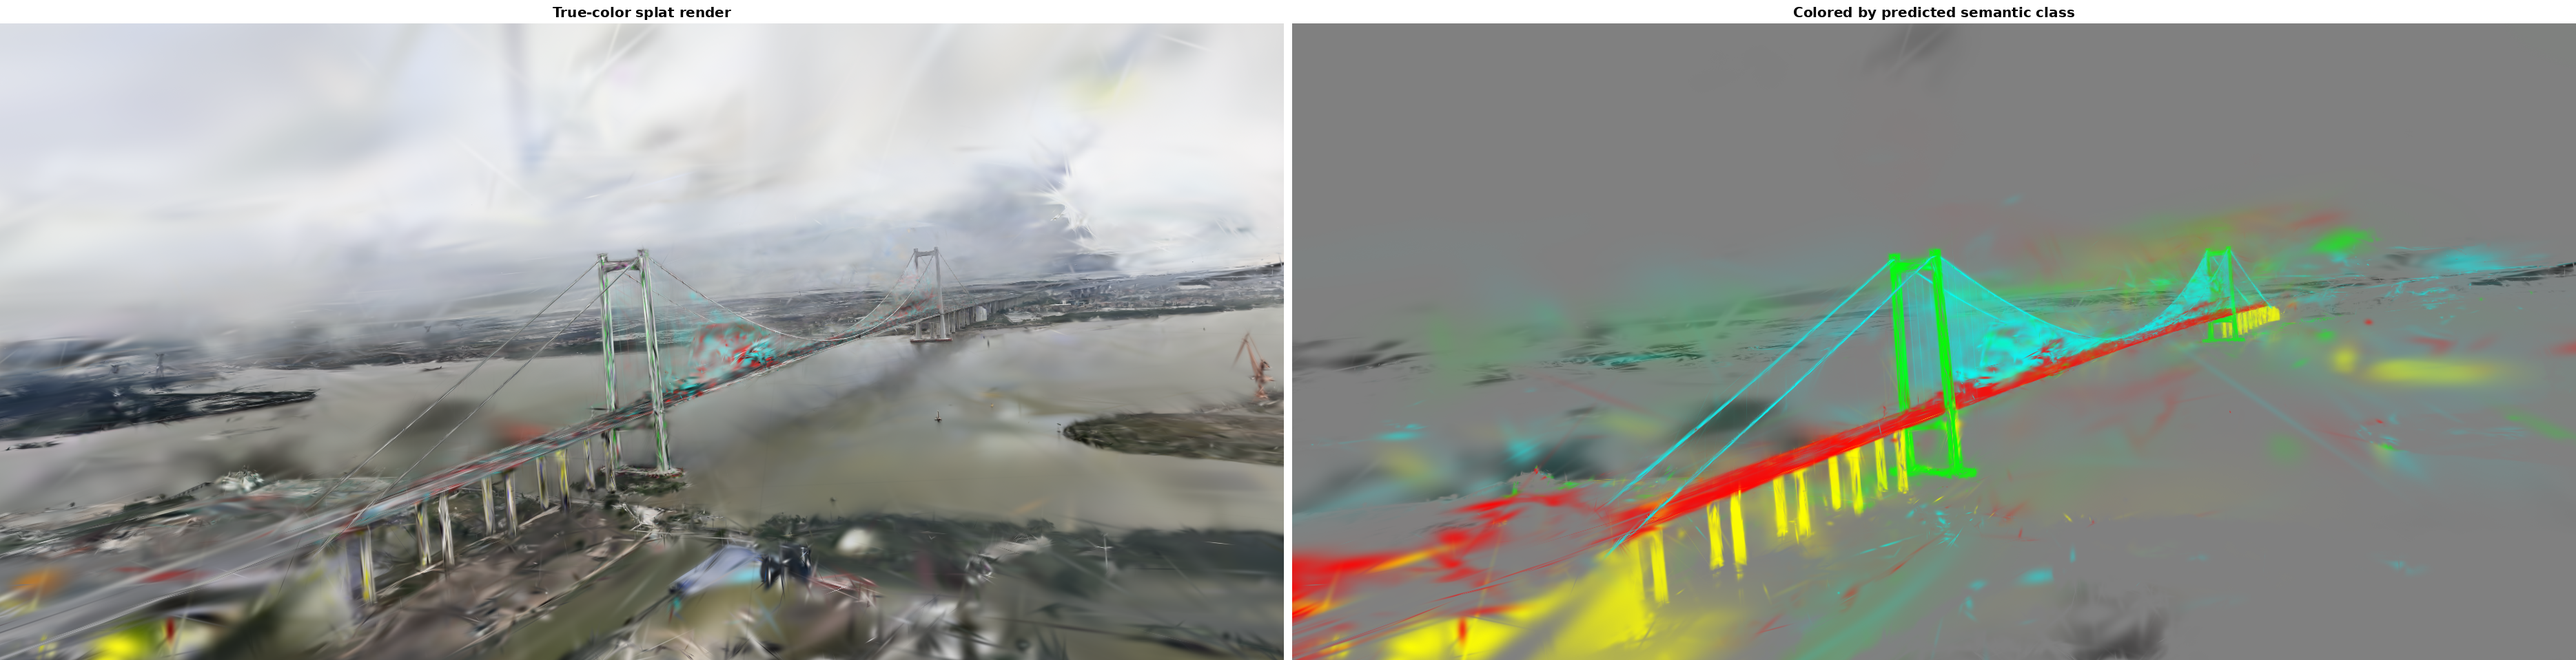
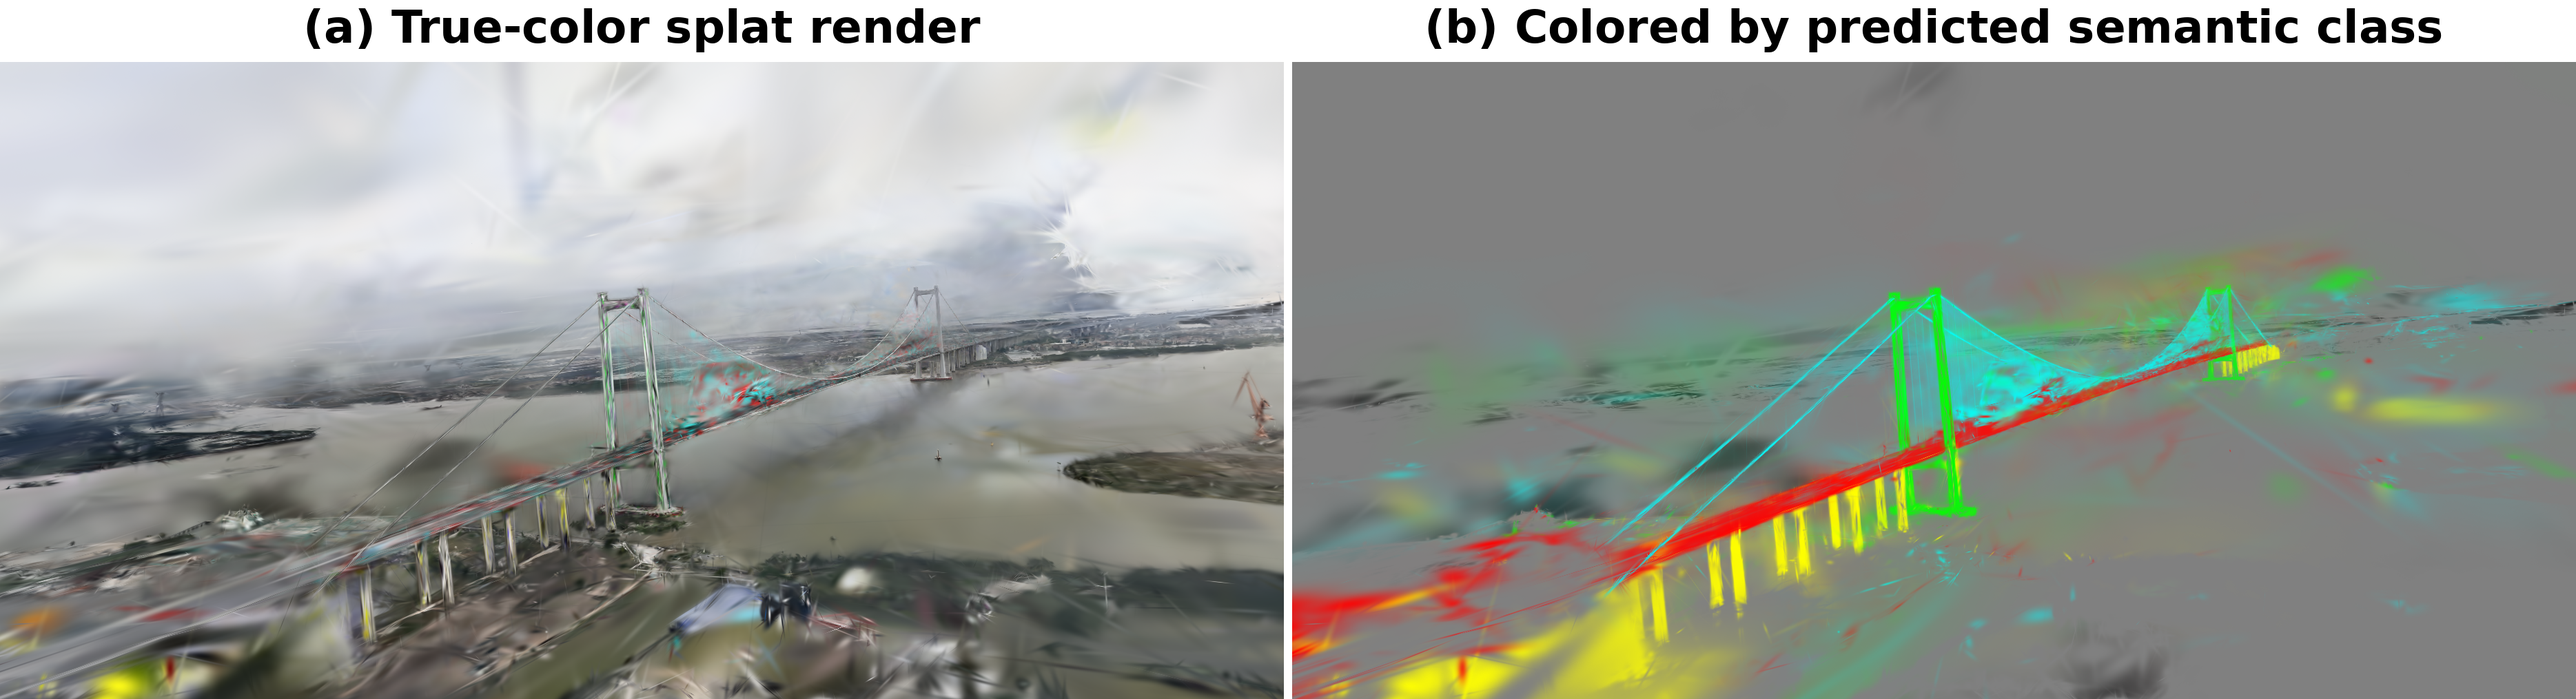
docs: enlarge Figure 6 panel labels, add (a)/(b) markers
Font size was a fixed 20px regardless of image width (panels are
~1900px wide), reading as tiny. Scale font size to panel width instead,
prefix labels with (a)/(b), and reference both panels explicitly in
the caption.

diff --git a/src/evaluation/compose_splat_screenshots.py b/src/evaluation/compose_splat_screenshots.py
@@ -13,21 +13,23 @@ import os
 
 from PIL import Image, ImageDraw, ImageFont
 
-LABEL_H = 34
-
 
 def _labeled_panel(image_path: str, label: str) -> Image.Image:
     img = Image.open(image_path).convert("RGB")
-    panel = Image.new("RGB", (img.width, img.height + LABEL_H), "white")
-    panel.paste(img, (0, LABEL_H))
+    font_size = max(14, img.width // 28)
+    label_h = font_size + 24
+
+    panel = Image.new("RGB", (img.width, img.height + label_h), "white")
+    panel.paste(img, (0, label_h))
     draw = ImageDraw.Draw(panel)
     try:
-        font = ImageFont.truetype("DejaVuSans-Bold.ttf", 20)
+        font = ImageFont.truetype("DejaVuSans-Bold.ttf", font_size)
     except OSError:
         font = ImageFont.load_default()
     bbox = draw.textbbox((0, 0), label, font=font)
     text_w = bbox[2] - bbox[0]
-    draw.text(((panel.width - text_w) / 2, 6), label, fill="black", font=font)
+    draw.text(((panel.width - text_w) / 2, (label_h - font_size) / 2 - bbox[1]),
+               label, fill="black", font=font)
     return panel
 
 
@@ -35,8 +37,8 @@ def compose_splat_screenshots(
     rgb_path: str,
     semantic_path: str,
     output_path: str,
-    rgb_label: str = "True-color splat render",
-    semantic_label: str = "Colored by predicted semantic class",
+    rgb_label: str = "(a) True-color splat render",
+    semantic_label: str = "(b) Colored by predicted semantic class",
     gap: int = 12,
 ) -> str:
     left = _labeled_panel(rgb_path, rgb_label)

diff --git a/paper/DRAFT.md b/paper/DRAFT.md
@@ -585,16 +585,18 @@ RGB and semantic outputs remain pixel-aligned at every step, including the degra
 ![Figure 6: Splat-viewer renders of the trained Gaussians, true-color and by predicted semantic class](figures/fig6_splat_render.png)
 
 **Figure 6 (optional): The trained Gaussians viewed in an interactive splat viewer**
-([SuperSplat](https://superspl.at/editor)), from the same viewpoint, exported via
-`export_splat_ply` (left, true RGB color) and `export_semantic_splat_ply` (right, colored by
-each Gaussian's predicted semantic class: deck red, stay_cable cyan, tower green, foundation
-yellow, background gray). Unlike the arbitrary-viewpoint renders in Figures 4-5, which cover only
-what a single camera pose sees, this alpha-blended splat render shows the full learned 3D
-structure at once — both towers, the cable fan, the deck, and the foundation piers are
-simultaneously visible and spatially coherent, confirming that the semantic warm-start and
-training loss converge to a structurally sensible 3D segmentation rather than scattered,
-inconsistent per-Gaussian labels. This figure is secondary to Figures 4 and 5 and can be dropped
-if space is limited.
+([SuperSplat](https://superspl.at/editor)), from the same viewpoint. **(a)** Exported via
+`export_splat_ply` and rendered in true RGB color, showing the reconstructed appearance of the
+whole bridge at once rather than one camera pose at a time. **(b)** The same Gaussians exported
+via `export_semantic_splat_ply` and colored by each Gaussian's predicted semantic class (deck
+red, stay_cable cyan, tower green, foundation yellow, background gray). Unlike the
+arbitrary-viewpoint renders in Figures 4-5, which each cover only what a single camera pose sees,
+this alpha-blended splat render exposes the full learned 3D structure simultaneously: both towers,
+the cable fan, the deck, and the foundation piers are all visible at once in panel (b) and clearly
+spatially coherent with the true-color reconstruction in panel (a), confirming that the semantic
+warm-start and training loss converge to a structurally sensible 3D segmentation rather than
+scattered, inconsistent per-Gaussian labels. This figure is secondary to Figures 4 and 5 and can
+be dropped if space is limited.
 
 ### 5.4 Ablation: Training Resolution
 
